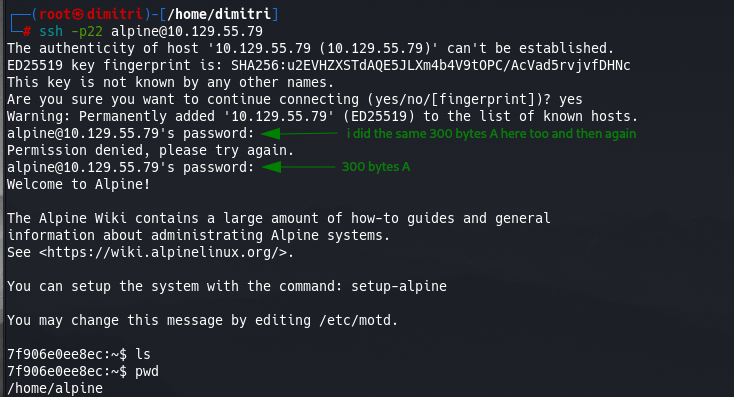
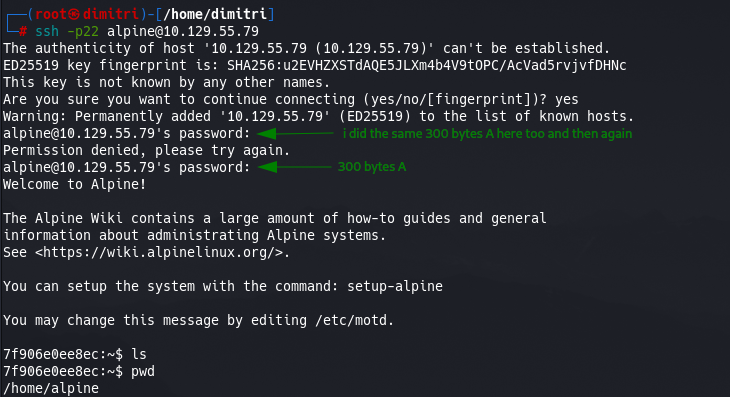
till user flag

Changed region(s): [[0.0, 0.0, 0.874, 0.9975], [0.4521, 0.3929, 0.5726, 0.4534]]

diff --git a/_posts/2026-11-13-doubletake.md b/_posts/2026-11-13-doubletake.md
@@ -1,0 +1,66 @@
+---
+title: DoubleTake - Hack The Box Walkthrough
+date: 2026-11-13 00:00:00 +/-0530
+categories: [Hack The Box Writeups, Easy]
+tags: [cve-2026-123158,ssh,cve-2026-41567,docker,linux] 
+media_subpath: /assets/img/doubletake/
+image: img.png
+---
+DoubleTake is a CVE focused machine, what I mean by that is it does not get exploited by normal exploitaion techniques like you'd expect in a web app. We start with a CVE and go forward with it to get a RCE then exploit another CVE to get higher priv. I know all exploitations are registered as some CVE but these are of the type you'll learn when you read the CVE for that specific exploit.
+
+Let's start.
+
+## Enumeration
+### nmap
+We start wth a nmap scan as always
+```terminal
+└─$ nmap 10.129.55.79
+                
+PORT   STATE SERVICE
+22/tcp open  ssh
+80/tcp open  http
+```
+so port 22, 80 are open, we'll run a full scan for some additional info
+
+```terminal
+└─$ nmap 10.129.55.79 -A -p80,22
+
+PORT   STATE SERVICE VERSION
+22/tcp open  ssh     OpenSSH 10.6 (protocol 2.0)
+80/tcp open  http    nginx 1.24.0 (Ubuntu)
+|_http-server-header: nginx/1.24.0 (Ubuntu)
+|_http-title: Site doesn't have a title (text/html; charset=utf-8).
+| http-auth: 
+| HTTP/1.1 401 UNAUTHORIZED\x0D
+|_  Basic realm=Zentara
+```
+If we visit the port 80, we get prompted with a login form, so to access it we'll have to get the credentials first from somewhere, and that leaves the ssh but we dont have the ssh credentials as well, hmmm you chose this life bro dont blame the machine. We will look for exploits using the info we got from the nmap scan.
+
+## Vulnerabilty Assesment
+Okay so it is running OpenSSH 10.6 (protocol 2.0), now after some research I found out this specific version of OpenSSH has a [CVE-2026-123158](https://www.ox.security/blog/openssh-authentication-bypass-cve-2026-123158/) aka *sshole (yes). It was very messy to understand yet it sounded so simple (it is very simple), thanks to ozgun kultekin for his amazing website [here](https://sshhole.com/), he explained it wayy easy and in the end you can perform and see too how easy it is to crack it.
+
+![](sshole.png){: .shadow w="800"}
+
+## Initial Foothold
+It is really very easy, all you have to do is for the ssh as the alpine user, enter a pass (whatever you want) then enter another password >256 bytes and you are good to go
+
+![](alpinessh.png){: .shadow w="800"}
+
+and just like that you get a alpine shell. now lets try to cat the user flag
+
+![](flagfail.png){: .shadow w="800"}
+
+looks like we don't have the permission, no problem them let's get the login credentials then of the web app. If you go the alpine user and list all the files you'll find a mozilla file and inside it there will be credentials for the user bob. **Both of them are base64 encoded.**
+
+![](mozilla.png){: .shadow w="800"}
+
+```
+bob:CorrectHorseBatteryStaple
+```
+nicee, now before going to the web app, lets try getting a ssh for bob using the credentials we got. If we suceed we can pwn the user. 
+
+![](user-flag.png){: .shadow w="800"}
+
+okay **user pwned**
+
+## Privilege Escalation 
